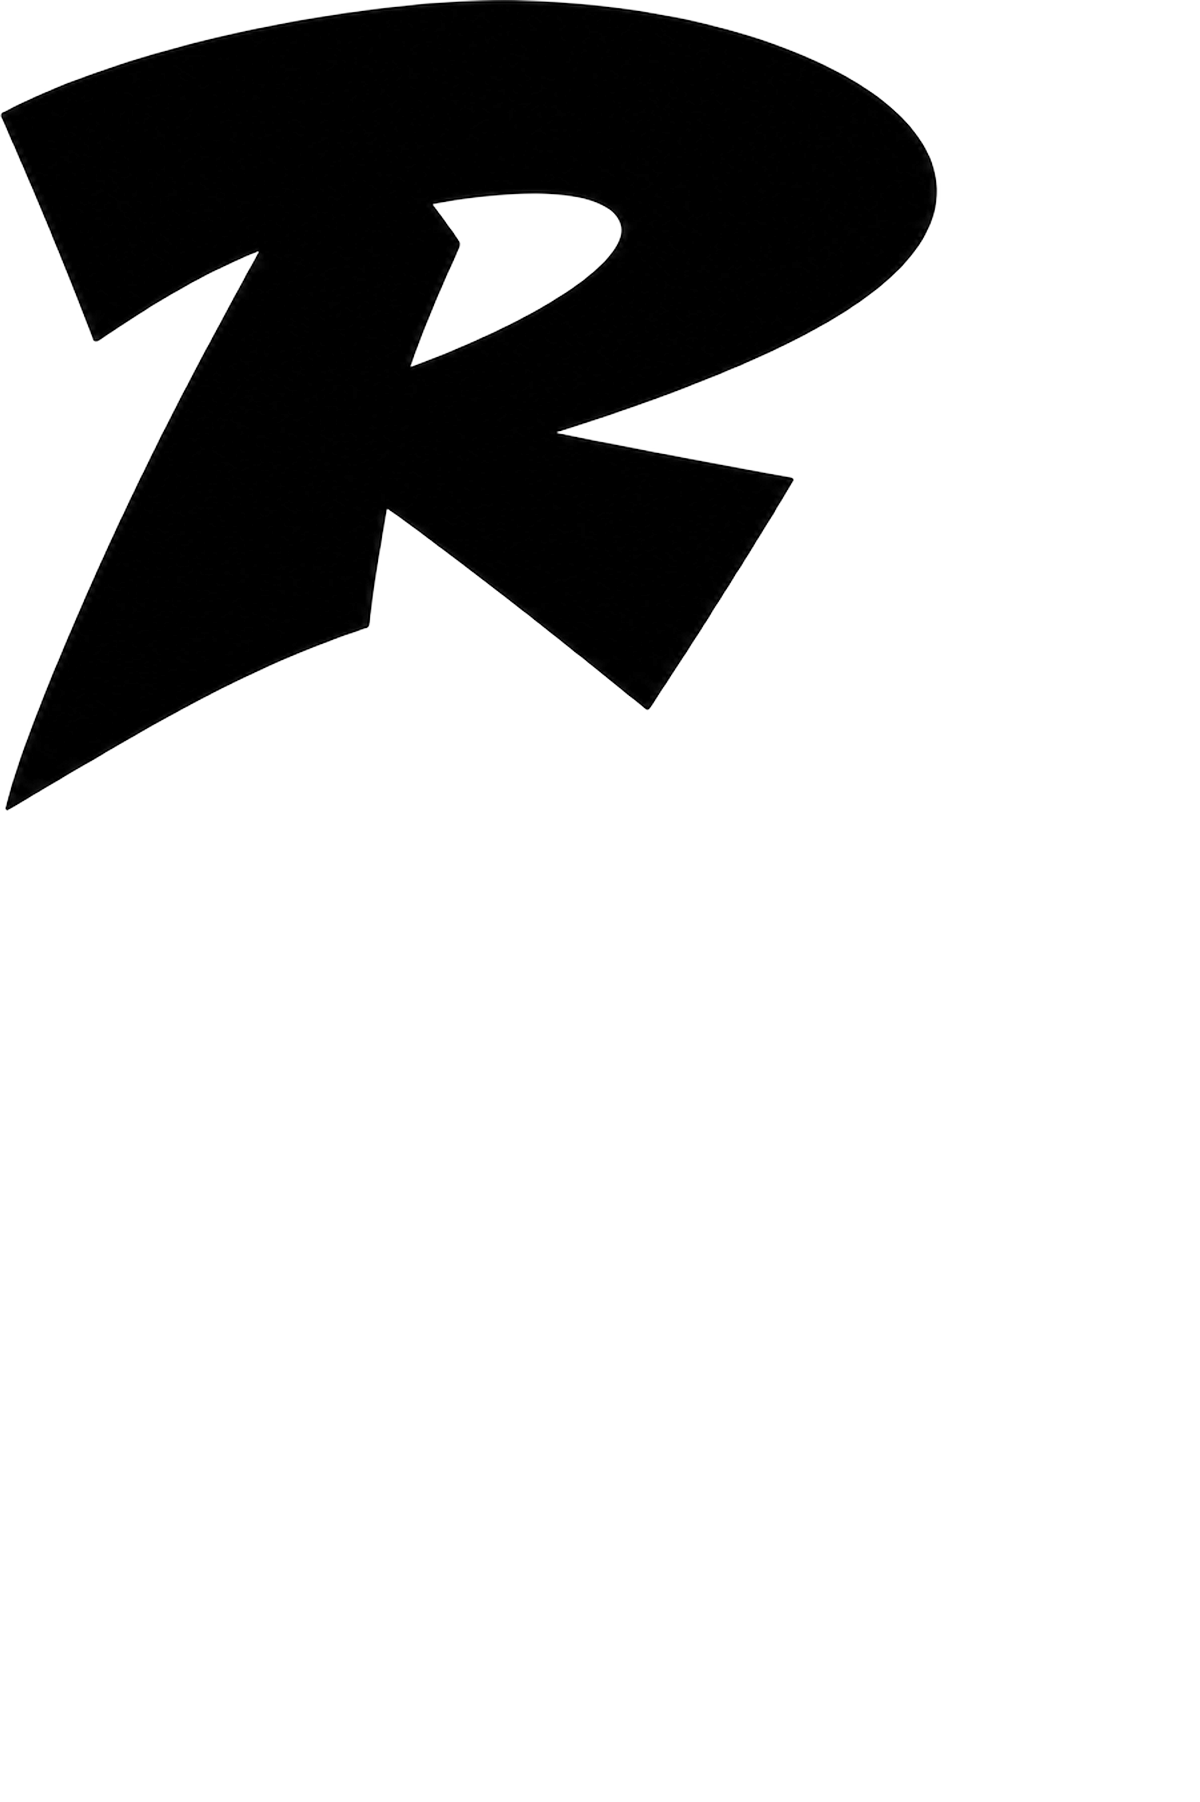
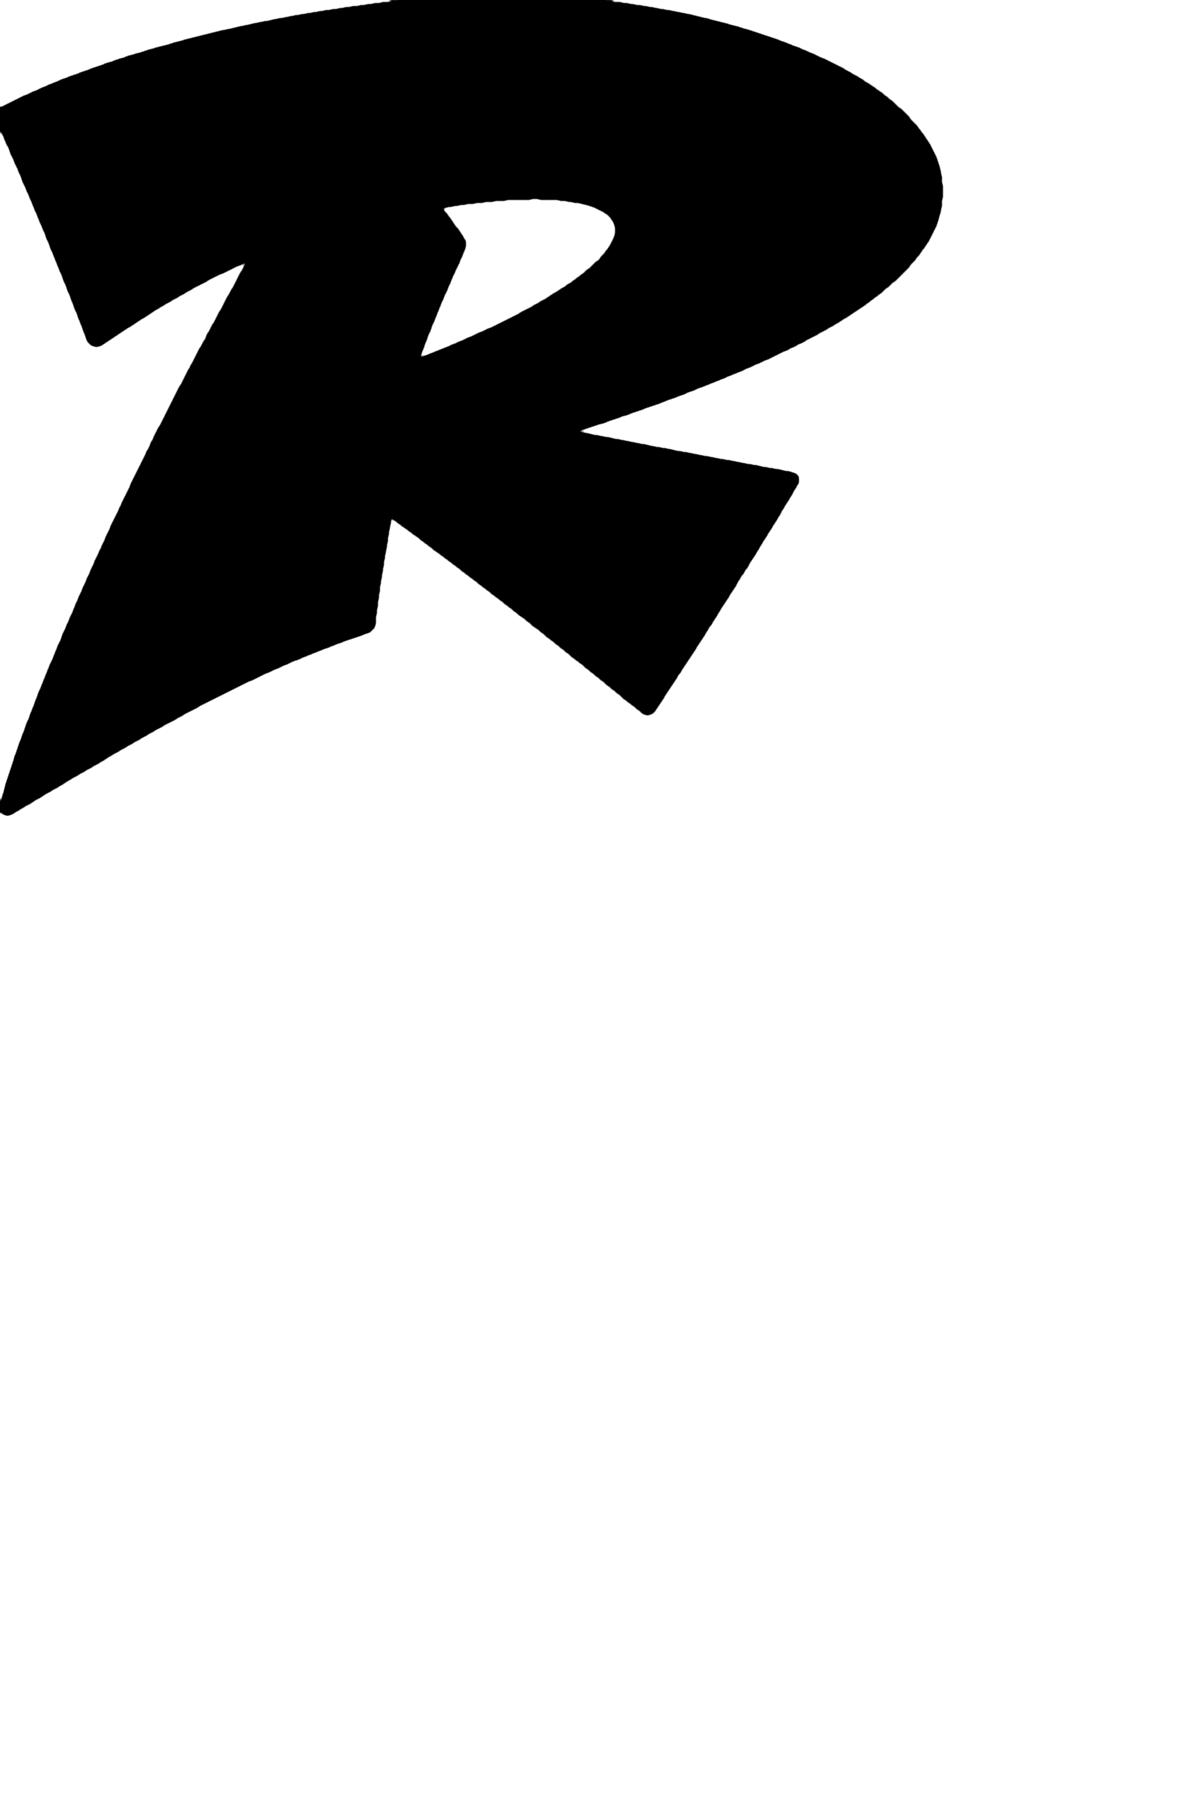
Add files via upload

diff --git a/index.html b/index.html
@@ -3,7 +3,7 @@
 <head>
 <meta charset="utf-8">
 <meta name="viewport" content="width=device-width, initial-scale=1, viewport-fit=cover">
-<title>RICSOU v16</title>
+<title>RICSOU v17</title>
 <style>
 *,*::before,*::after,a,a:hover,a:active,button{cursor:none!important}
 #mk{position:fixed;left:0;top:0;width:88px;height:88px;pointer-events:none;z-index:99999;opacity:0;will-change:transform}
@@ -30,7 +30,7 @@ body.in nav{display:none}
 @media (max-aspect-ratio:1/1){
   #stage{display:none}
   #mstage{display:flex;position:fixed;left:0;right:0;top:var(--bar);bottom:0;flex-direction:column;align-items:center;justify-content:center}
-  .mrow{position:relative;width:min(94vw,calc((100vh - var(--bar)) * .96 * 1200 / 1802));width:min(94vw,calc((100dvh - var(--bar)) * .96 * 1200 / 1802))}
+  .mrow{position:relative;width:min(100vw,calc((100vh - var(--bar)) * 1200 / 1795));width:min(100vw,calc((100dvh - var(--bar)) * 1200 / 1795))}
   nav{left:0;right:0;justify-content:flex-end;gap:14px;background:#fff;padding:calc(12px + env(safe-area-inset-top,0px)) 14px 12px}
   nav a{font-size:clamp(20px,6vw,28px)}
 }
@@ -64,9 +64,9 @@ body.in nav{display:none}
 // Logo : une image par lettre ; ordinateur = logo d'origine, téléphone = 3 rangées RI / CS / OU
 var MQ=matchMedia('(max-aspect-ratio:1/1)'),L=[],cur=null;
 var stage=document.getElementById('stage'),mstage=document.getElementById('mstage');
-var MW=1200,MH=1802;
+var MW=1200,MH=1795;
 function addLayer(box,file,name,cw,ch){
-  var im=new Image();im.decoding='async';im.alt=name==='r'?'RICSOU':'';im.src=file+'?v=16';box.appendChild(im);
+  var im=new Image();im.decoding='async';im.alt=name==='r'?'RICSOU':'';im.src=file+'?v=17';box.appendChild(im);
   var o={img:im,box:box,name:name,yel:false,data:null,cw:cw,ch:ch,rect:null};L.push(o);
   im.onload=function(){
     if(o.data)return;o.orig=im.src;o.base=new Image();o.base.src=im.src;
@@ -152,7 +152,7 @@ document.documentElement.addEventListener('pointerleave',function(e){if(e.pointe
 // Clic sur une lettre : surlignage jaune fluo (re-clic = retour au noir)
 var HEX=['#FF2A00','#0033FF','#00C84A','#FF8A00'],last=-1,tint={};
 function tinted(o,ci,cb){var key=o.name+ci;if(tint[key])return cb(tint[key]);
-  var b=o.base,w=b.naturalWidth,h=b.naturalHeight,r=Math.max(3,Math.round(w*.0065));
+  var b=o.base,w=b.naturalWidth,h=b.naturalHeight,r=Math.max(4,Math.round(w*(w<=1300?.016:.008)));
   var c=document.createElement('canvas');c.width=w;c.height=h;var x=c.getContext('2d');
   /* silhouette nette : alpha binaire (évite l'effet moucheté) */
   var sc=document.createElement('canvas');sc.width=w;sc.height=h;var sx=sc.getContext('2d');
